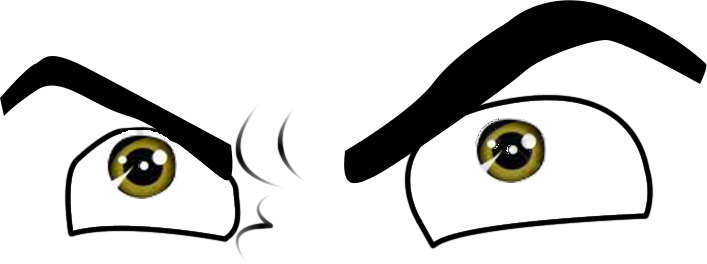
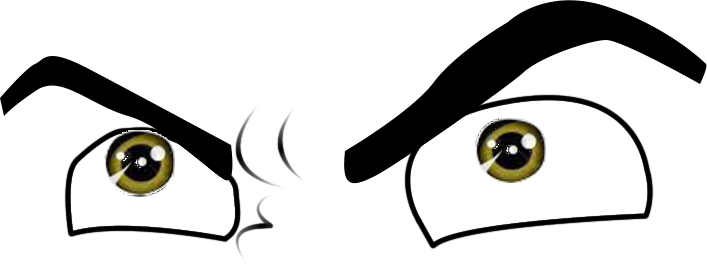
added fiter for image addetion

Changed region(s): [[0.1245, 0.4848, 0.2489, 0.7576]]

diff --git a/clean/practice_code/image_in_image.py b/clean/practice_code/image_in_image.py
@@ -59,8 +59,16 @@ green_eye = cv2.imread('green_eye.png', cv2.IMREAD_UNCHANGED)
 result = cv2.matchTemplate(eyes_img, pupil_img, cv2.TM_CCOEFF_NORMED)
 w = pupil_img.shape[1]
 h = pupil_img.shape[0]
-threshold = .40
+threshold = .4
 yloc, xloc = np.where(result >= threshold)
+location_check = []
 for (x, y) in zip(xloc, yloc):
-    img_rgb = image_overlay_second_method(eyes_img, green_eye, location=(x,y), min_thresh=0, is_transparent=True)
+    if len(location_check) == 0: 
+        location_check.append([x, y])
+        img_rgb = image_overlay_second_method(eyes_img, green_eye, location=(x,y), min_thresh=0, is_transparent=True)
+
+    elif abs(location_check[-1][0]-x) > 10 or abs(location_check[-1][1]-y) > 10:
+        location_check.append([x, y])
+        img_rgb = image_overlay_second_method(eyes_img, green_eye, location=(x,y), min_thresh=0, is_transparent=True)
+print(location_check)
 cv2.imwrite('result.png', img_rgb)
